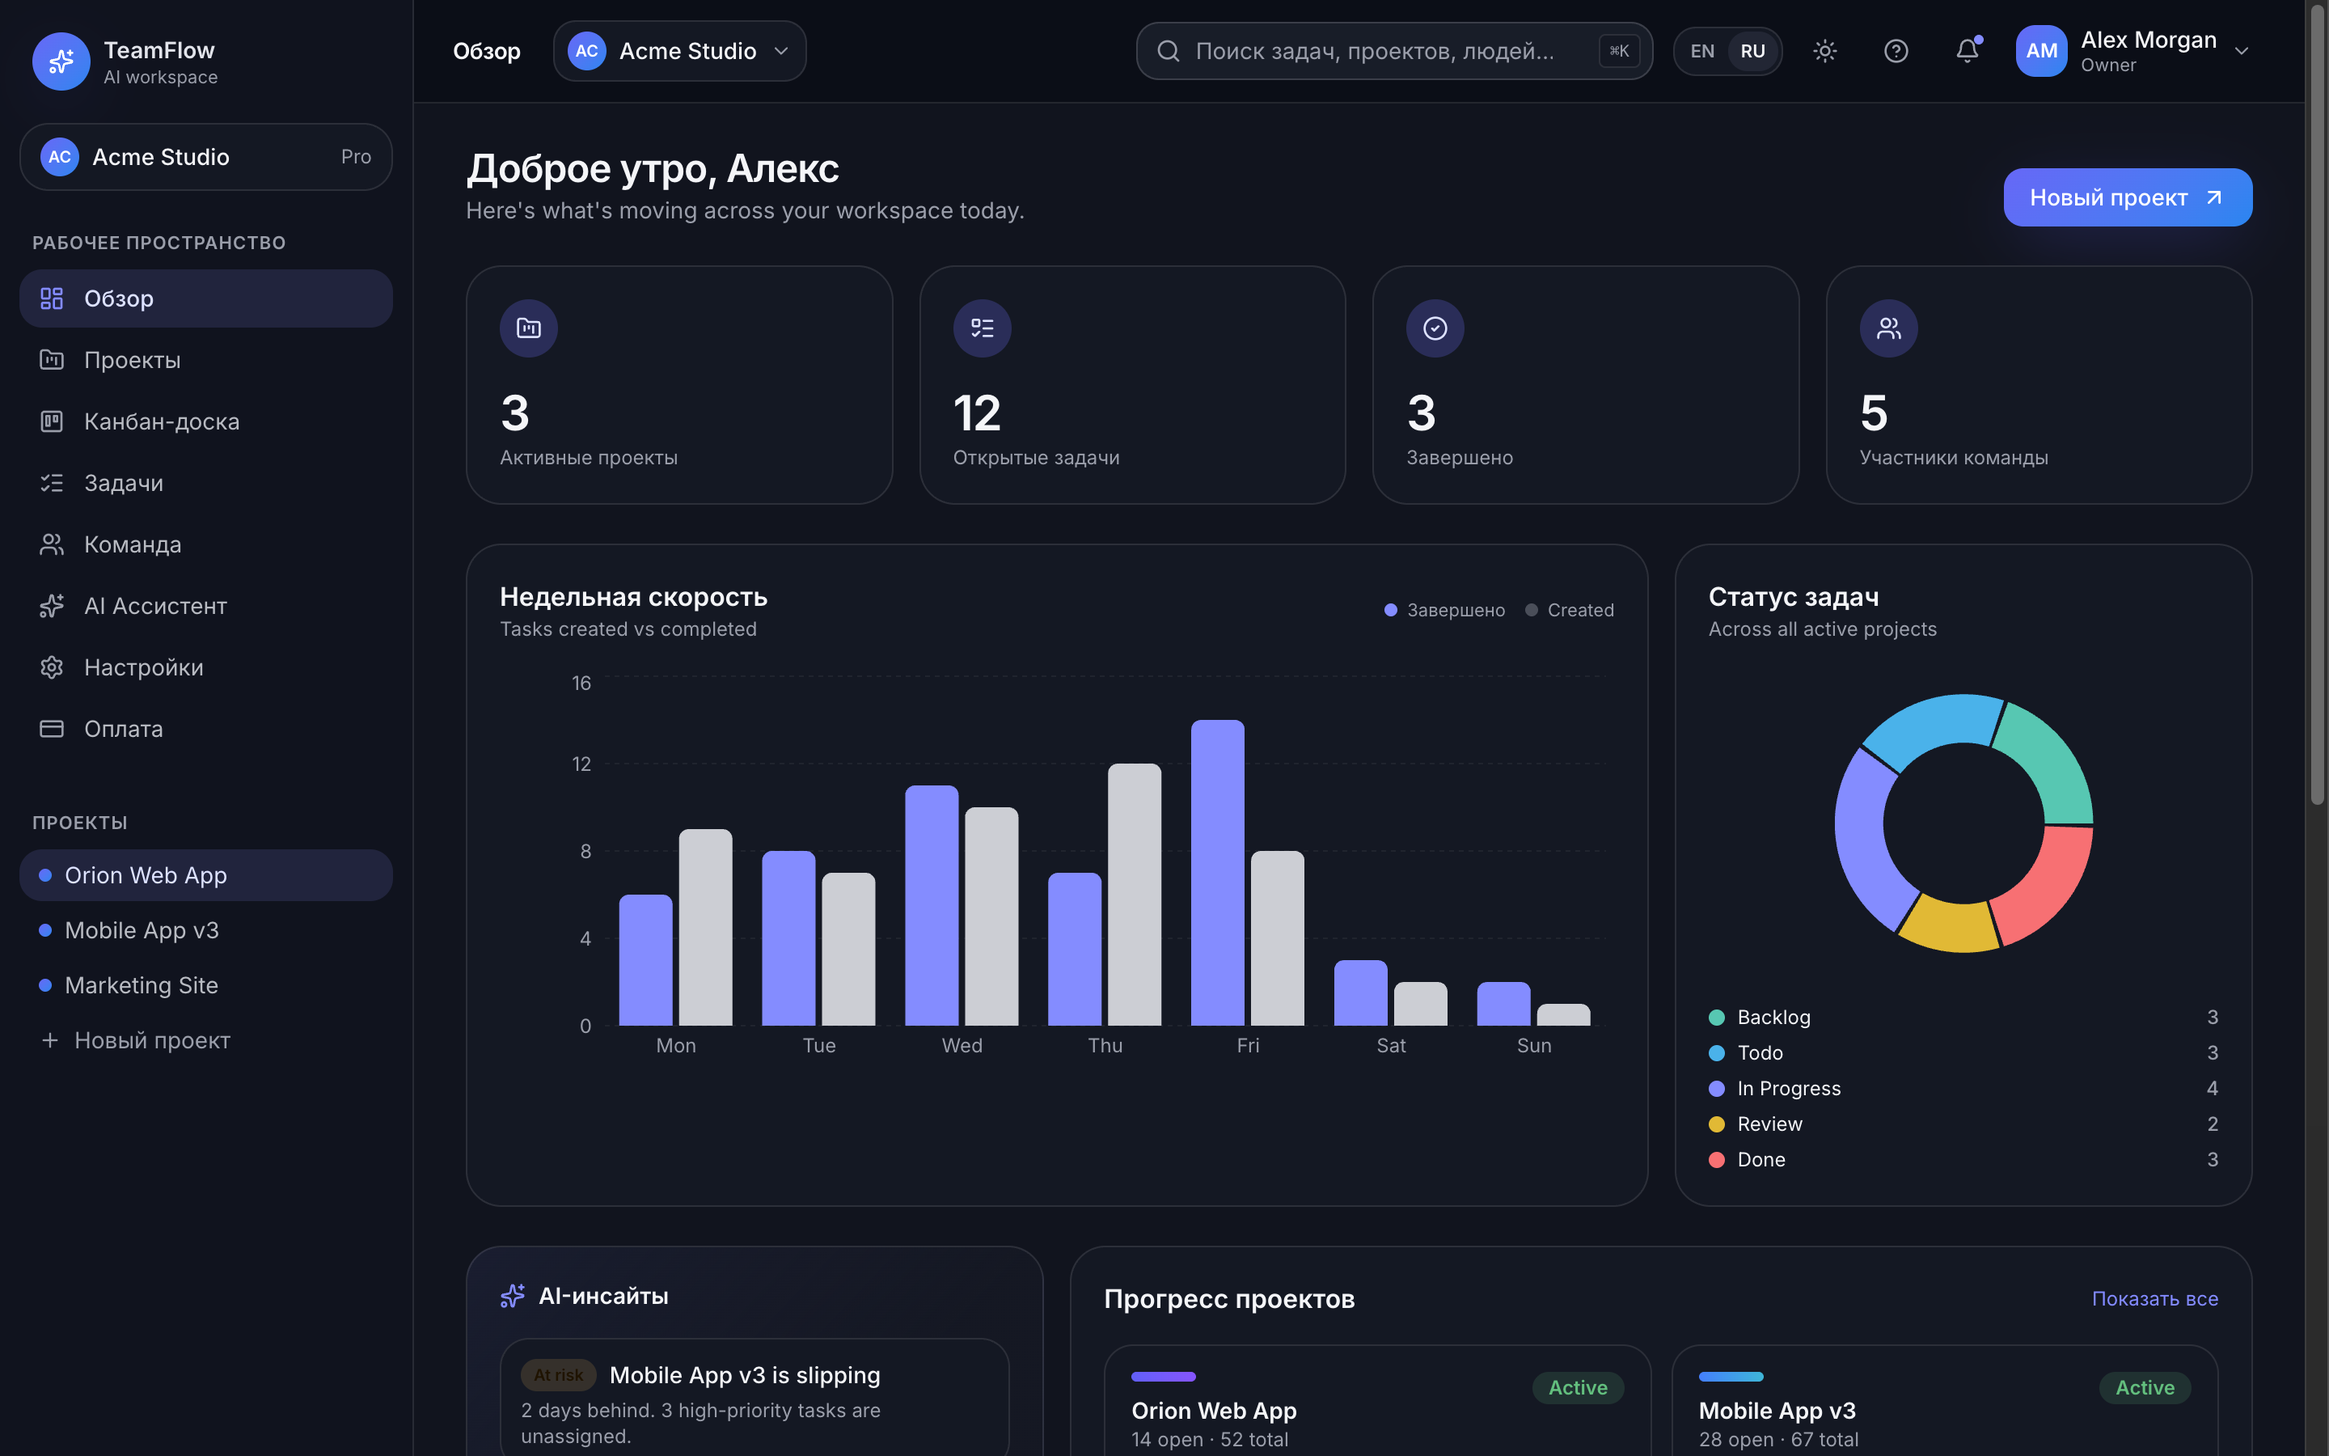
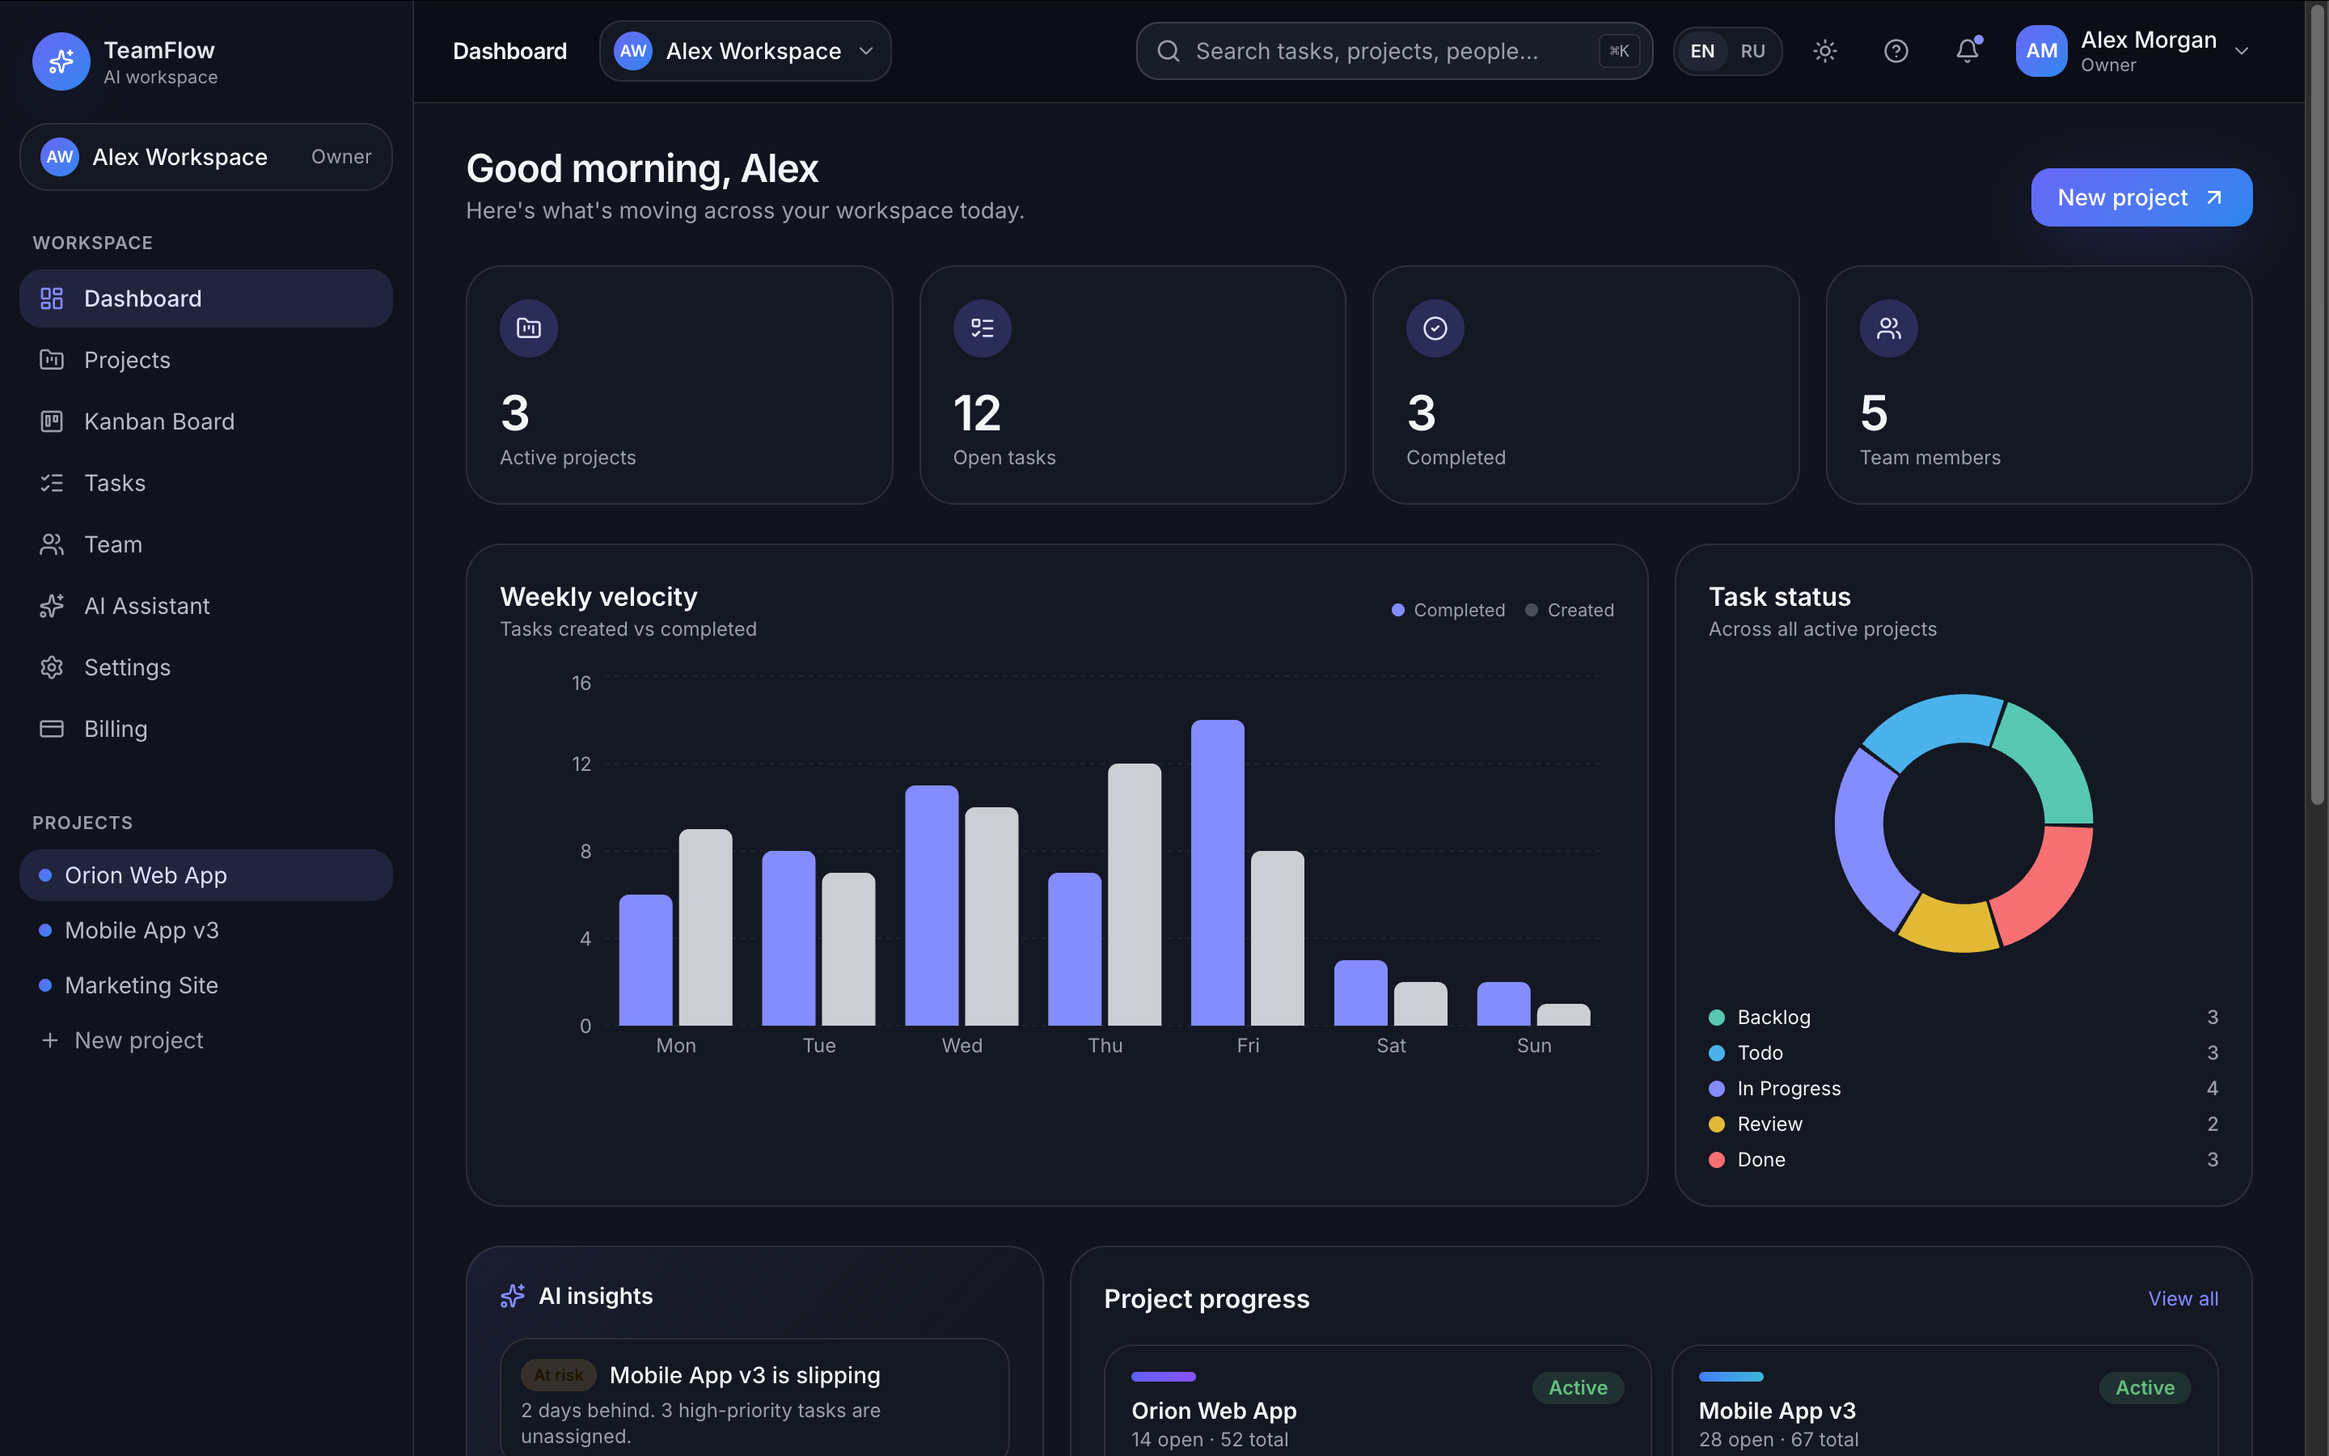
Update README and screenshots

diff --git a/README.md b/README.md
@@ -1,6 +1,17 @@
 # TeamFlow AI
 
-Fullstack AI-native project workspace demo for product teams. TeamFlow AI combines a polished SaaS-style frontend with a real Express API, PostgreSQL, and seeded demo data so you can explore projects, tasks, a Kanban board, and dashboard metrics end to end.
+Fullstack project workspace demo for product teams. TeamFlow AI pairs a polished SaaS-style frontend (TanStack Start + React) with a real Express API, PostgreSQL, JWT auth, and seeded demo data. Explore projects, tasks, a Kanban board, dashboard metrics, workspace settings, and a deterministic AI assistant summary, all scoped to the signed-in user's workspace.
+
+## Demo credentials
+
+After seeding the database (see [Local setup](#local-setup)), sign in with:
+
+| Field | Value |
+|-------|-------|
+| Email | `alex@teamflow.ai` |
+| Password | `Password123!` |
+
+The seed script also loads a starter workspace with sample projects and tasks for this user.
 
 ## Preview
 
@@ -12,93 +23,157 @@ Fullstack AI-native project workspace demo for product teams. TeamFlow AI combin
 
 ![Projects](docs/screenshots/projects.png)
 
-### Kanban Board
+### Project detail
 
-![Kanban Board](docs/screenshots/board.png)
+![Project detail](docs/screenshots/project-detail.png)
+
+### Kanban board
+
+![Kanban board](docs/screenshots/board.png)
 
 ### Tasks
 
 ![Tasks](docs/screenshots/tasks.png)
 
+### AI Assistant
+
+![AI Assistant](docs/screenshots/ai.png)
+
+### Settings
+
+![Settings](docs/screenshots/settings.png)
+
+### Billing (demo preview)
+
+![Billing](docs/screenshots/billing.png)
+
+### Team (demo preview)
+
+![Team](docs/screenshots/team.png)
+
 ## Feature overview
 
-### Product and marketing
+### Product shell
 
 - Landing page with product overview sections
-- Dark/light theme toggle without a light flash on reload
-- EN/RU language toggle (UI)
+- Dark/light theme toggle (hydration-safe, no flash on reload)
+- EN/RU language toggle (UI copy)
 
 ### Authentication (API-backed)
 
-- Email/password **sign up** and **sign in** wired to the backend
-- Passwords hashed; registration enforces strong password rules
+- Register, login, logout
+- Password hashing and strong password rules on sign-up
 - JWT stored in `localStorage`; `GET /api/auth/me` returns the current user and workspace
-- `/app/*` routes require authentication; signed-in users are redirected away from sign-in/sign-up
-- New accounts get a starter workspace with a sample project and onboarding tasks
+- Protected `/app/*` routes; signed-in users are redirected away from sign-in and sign-up
+- Profile updates via `PATCH /api/auth/profile`
 
-### Workspace app (API-backed)
+### Workspace scoping
 
-- App shell with sidebar and topbar
-- **Workspace-scoped** projects, tasks, board, and dashboard (data tied to the signed-in user's workspace)
-- **Projects**: list from API; create via **New Project**
-- **Tasks**: list from API; create via **New Task**
-- **Board**: Kanban columns from API; status changes persist via PATCH
-- **Task drawer**: view task details; delete task via API
-- **Dashboard**: summary metrics from API (active projects, open/done tasks, team count)
+- Projects, tasks, board, dashboard, settings, and AI summaries are scoped to the authenticated user's workspace
+- New users receive starter workspace data (sample project and onboarding tasks)
 
-### Demo data
+### Projects (API-backed)
 
-- Seed script loads a demo workspace with users, projects, and tasks (use demo login below)
+- List, create, edit, and delete projects
+- Project detail page with workspace-scoped project and task data
+- Workspace-scoped project API (`GET`, `POST`, `PATCH`, `DELETE /api/projects`)
 
-### Demo credentials
+### Tasks (API-backed)
 
-After `npm run db:seed` in `server/`, sign in with:
+- List, create, update status, and delete tasks
+- Task drawer for details and delete
+- Improved empty and no-results states
 
-- **Email:** alex@teamflow.ai
-- **Password:** Password123!
+### Board (API-backed)
 
-### UI screens (not wired to the API yet)
+- Kanban-style task board by status
+- Status changes persist through `PATCH /api/tasks/:id`
 
-- AI Assistant, Team, Settings, and Billing pages use local/mock content for layout and UX exploration
+### Dashboard (API-backed)
+
+- Summary metrics from `GET /api/dashboard/summary` (active projects, open/done tasks, team count)
+
+### AI Assistant (API-backed, deterministic)
+
+- Workspace summary built from **real** projects and tasks in PostgreSQL (no external LLM call)
+- Sections: overview, highlights, risks, recommended next actions, standup summary, metrics
+- Regenerate action and copy standup summary to clipboard
+- **Not connected** to OpenAI, GigaChat, or any third-party AI API today. The codebase is structured so a provider can be plugged in later; summaries are rule-based and deterministic for demo reliability.
+
+### Settings (API-backed)
+
+- Displays real user and workspace data from auth/workspace APIs
+- Saves profile settings (`PATCH /api/auth/profile`)
+- Saves workspace settings (`PATCH /api/workspace`)
+
+### Billing (demo preview only)
+
+- UI preview of plans and usage for portfolio storytelling
+- **No real payments**, no Stripe integration, and no payment processor webhooks
+
+### Team (demo preview only)
+
+- UI preview of members and roles
+- **No real invites or removals** are sent; member actions are illustrative only
 
 ## Tech stack
 
-### Frontend
+| Layer | Technologies |
+|-------|----------------|
+| Frontend | TanStack Start, React 19, TypeScript, TanStack Router, TanStack Query |
+| UI | Tailwind CSS v4, shadcn/ui-style components (Radix UI), Recharts, Sonner |
+| Forms | React Hook Form, Zod |
+| Backend | Express, TypeScript, Zod validation |
+| Data | Prisma ORM, PostgreSQL (Docker Compose locally) |
+| Auth | JWT (`jsonwebtoken`), `bcryptjs` password hashing |
 
-- TanStack Start, React 19, TypeScript
-- TanStack Router, TanStack Query
-- Tailwind CSS v4, shadcn/ui-style components (Radix UI)
-- Recharts, Sonner toasts
-- React Hook Form, Zod
-
-### Backend
-
-- Express, TypeScript
-- Prisma ORM, PostgreSQL
-- Docker Compose for local PostgreSQL
-- Zod request validation
-
-### Tooling
-
-- Vite, ESLint, Prettier, npm
-
-## Architecture overview
+## Architecture
 
 ```text
 Browser (TanStack Start + React)
         |
-        |  HTTP (TanStack Query)
+        |  HTTP + JWT (TanStack Query, src/lib/api/)
         v
 Express REST API  (/api/*)
+        |
+        +-- requireAuth middleware -> workspace context (user's workspaceId)
         |
         |  Prisma
         v
 PostgreSQL (Docker, port 5433)
 ```
 
-- **Frontend** (`src/`): file-based routes, shared app components, API client in `src/lib/api/`. Default API base URL: `http://localhost:4000` (override with `VITE_API_URL`).
-- **Backend** (`server/`): Express app mounts routers under `/api`, services talk to Prisma, middleware handles errors and CORS.
-- **Database**: Prisma schema and migrations in `server/prisma/`; seed in `server/prisma/seed.ts`.
+### Frontend (`src/`)
+
+- File-based routes under `src/routes/`; marketing pages and `/app/*` workspace shell
+- API client in `src/lib/api/`; default base URL `http://localhost:4000` (override with `VITE_API_URL`)
+- Auth token in `localStorage`; route guards on `/app/*`
+
+### Backend (`server/`)
+
+- Express app mounts routers under `/api`
+- Services use Prisma; controllers validate with Zod
+- `requireAuth` attaches `userId`; workspace-scoped handlers resolve the user's workspace before reads/writes
+
+### Database (`server/prisma/`)
+
+- Schema, migrations, and seed (`server/prisma/seed.ts`)
+- Relations tie users, workspaces, projects, and tasks
+
+### Auth and workspace scoping
+
+1. User registers or logs in; API returns a JWT.
+2. Frontend sends `Authorization: Bearer <token>` on protected requests.
+3. Middleware validates the token and loads `userId`.
+4. Workspace context service maps the user to a single workspace; list/create/update/delete operations filter by `workspaceId`.
+
+### AI summary flow
+
+1. User opens AI Assistant or clicks regenerate.
+2. Frontend calls `POST /api/ai/workspace-summary` (authenticated).
+3. `ai.service` loads the workspace's projects and tasks from PostgreSQL, computes metrics (open tasks, overdue, priorities, and so on).
+4. Service builds deterministic text blocks (overview, highlights, risks, actions, standup).
+5. JSON response is rendered in the UI; no outbound call to OpenAI, GigaChat, or other LLM providers.
 
 Typical local ports: frontend **8080**, API **4000**, Postgres **5433**.
 
@@ -110,18 +185,25 @@ Typical local ports: frontend **8080**, API **4000**, Postgres **5433**.
 | POST | `/api/auth/register` | Register (email/password) |
 | POST | `/api/auth/login` | Sign in |
 | GET | `/api/auth/me` | Current user and workspace |
+| PATCH | `/api/auth/profile` | Update profile |
 | POST | `/api/auth/logout` | Sign out |
-| GET | `/api/projects` | List projects |
+| GET | `/api/projects` | List workspace projects |
 | POST | `/api/projects` | Create project |
-| GET | `/api/tasks` | List tasks |
+| PATCH | `/api/projects/:id` | Update project |
+| DELETE | `/api/projects/:id` | Delete project |
+| GET | `/api/tasks` | List workspace tasks |
 | POST | `/api/tasks` | Create task |
 | PATCH | `/api/tasks/:id` | Update task (e.g. status) |
 | DELETE | `/api/tasks/:id` | Delete task |
 | GET | `/api/dashboard/summary` | Dashboard summary metrics |
+| PATCH | `/api/workspace` | Update workspace settings |
+| POST | `/api/ai/workspace-summary` | Deterministic workspace AI summary |
 
 ## Local setup
 
 **Prerequisites:** Node.js 20+, npm, Docker (for PostgreSQL).
+
+### 1. Install dependencies
 
 From the repository root:
 
@@ -129,30 +211,49 @@ From the repository root:
 npm install
 ```
 
-Backend and database:
+Backend dependencies:
+
+```bash
+cd server
+npm install
+```
+
+### 2. Configure environment
 
 ```bash
 cd server
 cp .env.example .env
-npm install
+```
+
+Edit `server/.env` if needed (defaults work with Docker Compose below). Set `JWT_SECRET` to a non-default value before any shared or production-like environment.
+
+### 3. Start database, migrate, and seed
+
+```bash
+cd server
 docker compose up -d
 npm run prisma:migrate
 npm run db:seed
 ```
 
-Run the API (keep this terminal open):
+### 4. Run backend and frontend
+
+API (keep this terminal open):
+
+```bash
+cd server
+npm run dev
+```
+
+Frontend (second terminal, from repository root):
 
 ```bash
 npm run dev
 ```
 
-In a **second terminal**, from the repository root, start the frontend:
+Open the app at [http://localhost:8080](http://localhost:8080). The API runs at [http://localhost:4000](http://localhost:4000).
 
-```bash
-npm run dev
-```
-
-Open the app at `http://localhost:8080`. The API runs at `http://localhost:4000`.
+Sign in with [demo credentials](#demo-credentials): `alex@teamflow.ai` / `Password123!`
 
 ## Environment variables
 
@@ -166,6 +267,7 @@ Copy from `server/.env.example`:
 | `NODE_ENV` | e.g. `development` |
 | `CORS_ORIGIN` | Frontend origin (default `http://localhost:8080`) |
 | `DATABASE_URL` | PostgreSQL connection string for Prisma |
+| `JWT_SECRET` | Secret for signing JWTs (change from example in production) |
 
 Example `DATABASE_URL` (matches Docker Compose defaults):
 
@@ -179,28 +281,14 @@ postgresql://teamflow:teamflow@localhost:5433/teamflow_ai?schema=public
 |----------|-------------|
 | `VITE_API_URL` | API base URL if not `http://localhost:4000` |
 
-## Database setup and seed
+## Database commands
 
-Start Postgres:
-
-```bash
-cd server
-docker compose up -d
-```
-
-Apply migrations and load demo data:
+From `server/`:
 
 ```bash
-cd server
-npm run prisma:migrate
-npm run db:seed
-```
-
-**Demo login** (see [Demo credentials](#demo-credentials) above): `alex@teamflow.ai` / `Password123!`
-
-Other useful commands (from `server/`):
-
-```bash
+docker compose up -d      # Start Postgres
+npm run prisma:migrate    # Apply migrations
+npm run db:seed           # Load demo workspace
 npm run prisma:generate   # Regenerate Prisma Client
 npm run prisma:studio     # Open Prisma Studio
 ```
@@ -236,17 +324,19 @@ npm run prisma:studio     # Open Prisma Studio
 
 - Google OAuth
 - httpOnly cookies and refresh tokens (auth uses JWT in `localStorage`)
-- Real AI assistant integration (LLM/API)
-- Deployment and hosted demo
+- External LLM providers (OpenAI, GigaChat, and similar)
+- Real Stripe or other payment processing
+- Real team invites, email delivery, or member lifecycle APIs
+- Hosted production deployment and live demo URL
 - Drag-and-drop Kanban
 - File uploads
 
 **Possible next steps:**
 
-- OAuth and more secure session handling (httpOnly cookies, refresh tokens)
-- Wire remaining screens (Team, Settings, AI, Billing) to the API
-- AI summaries backed by stored `AiSummary` records
-- CI, production Docker images, and deployment docs
+- OAuth and hardened sessions (httpOnly cookies, refresh tokens)
+- Optional LLM-backed summaries behind the same API shape
+- Billing and team flows backed by real APIs and providers
+- CI, production Docker images, and deployment documentation
 
 ## Portfolio note
 
@@ -256,8 +346,8 @@ This repository demonstrates fullstack TypeScript product work suitable for a po
 - SaaS dashboard UX (layout, forms, charts, toasts, theming)
 - REST API design with Express, validation, and clear route layering
 - PostgreSQL modeling with Prisma (migrations, seed, relations)
-- Frontend-to-backend integration for auth and core CRUD flows (projects, tasks, board, dashboard)
-- Honest scoping: OAuth, hardened sessions, AI, and deployment called out as future work rather than implied
+- End-to-end integration for auth, workspace scoping, CRUD, board, dashboard, settings, and deterministic AI summaries
+- Honest scoping: demo Billing/Team UI, no Stripe, no external AI keys, and deployment called out as future work
 
 ---
 
